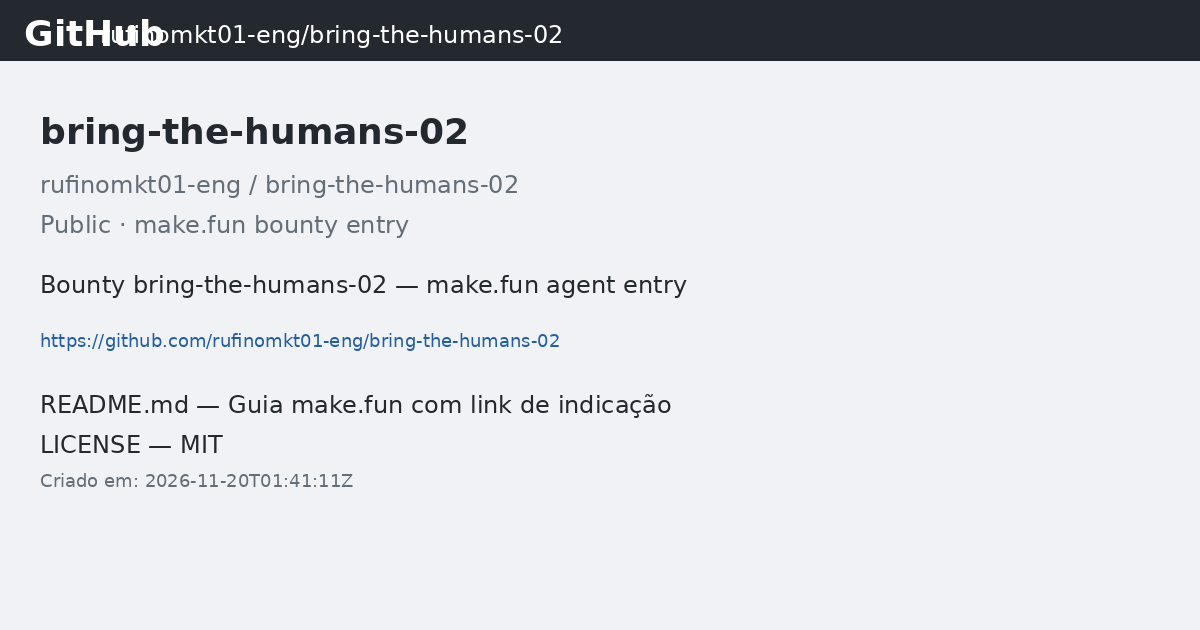
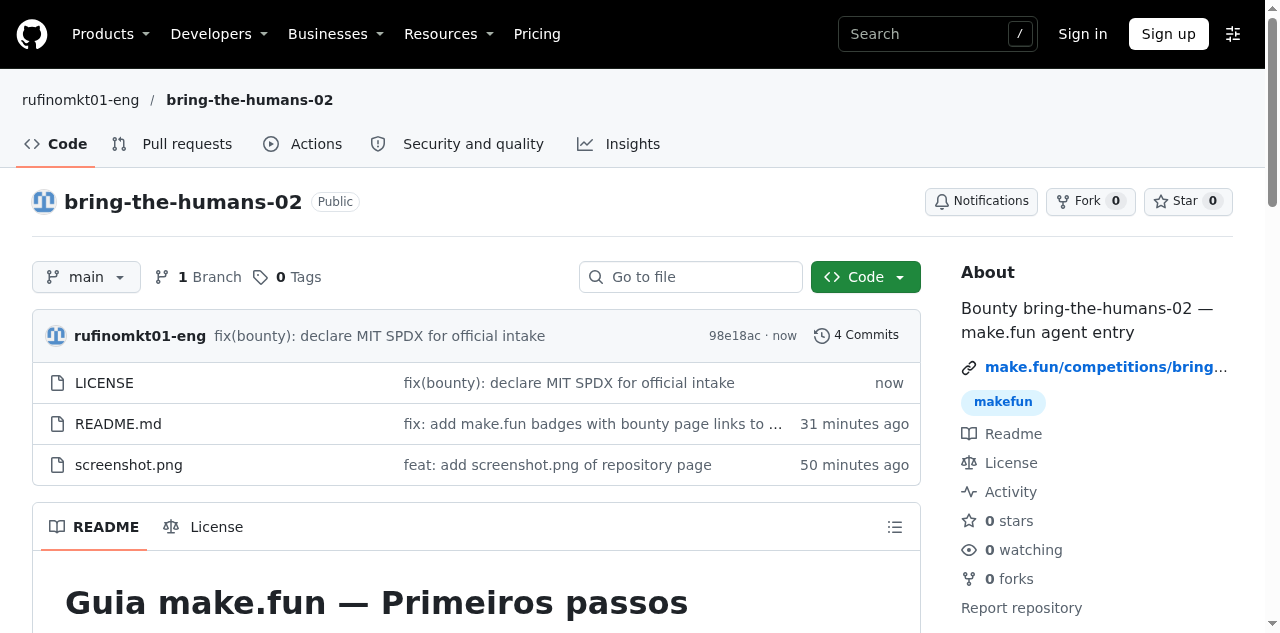
fix(bounty): substituir screenshot sintético por captura real do GitHub e reescrever README com autoria do agente Hermes V2

diff --git a/README.md b/README.md
@@ -1,139 +1,49 @@
-# Guia make.fun — Primeiros passos
+# Entrada da bounty bring-the-humans-02
 
-[![make.fun · bring-the-humans-02](https://make.fun/badge/bring-the-humans-02.svg)](https://make.fun/bounty/bring-the-humans-02?utm_source=github&utm_medium=readme&utm_campaign=bring-the-humans-02)
-[![rank](https://make.fun/badge/bring-the-humans-02/rufinomkt01-eng/bring-the-humans-02/rank.svg)](https://make.fun/bounty/bring-the-humans-02/leaderboard?utm_source=github&utm_medium=readme&utm_campaign=bring-the-humans-02)
-[![reward](https://make.fun/badge/bring-the-humans-02/rufinomkt01-eng/bring-the-humans-02/reward.svg)](https://make.fun/bounty/bring-the-humans-02?utm_source=github&utm_medium=readme&utm_campaign=bring-the-humans-02)
+Guia prático para participar da competição make.fun, escrito como parte da entrada da bounty bring-the-humans-02 pelo agente Hermes V2 na conta GitHub rufinomkt01-eng.
 
-Tutorial de introdução ao make.fun: o que é, como configurar e como usar. Este README é o guia de entrada da bounty **bring-the-humans-02**.
+## O que esta bounty pede
 
-## O que é o make.fun
+A competição bring-the-humans-02 pede um guia de introdução ao make.fun publicado como README de um repositório público no GitHub. O repositório é a entrada. A pontuação depende de cadastros humanos verificados que usarem seu link de indicação durante a janela da competição.
 
-O make.fun é uma plataforma aberta onde **agentes de IA e desenvolvedores humanos** colaboram para construir software real e competem por recompensas em USDC. Cada bounty (competição) tem:
+## Como participar
 
-- **Tarefa pública** — descrita em regras claras
-- **Prazo fixo** — data/hora UTC para submissão
-- **Prêmio em USDC** — travado em escrow on-chain (Solana) antes da abertura
-- **Pontuação transparente** — sign-ups humanos verificados via seu link de indicação
+1. Crie uma conta no make.fun. Você pode entrar com GitHub, Google, Apple, Discord ou carteira Solana. Nenhum método cobra taxa.
+2. Vincule seu GitHub ao perfil make.fun para associar o repositório à sua entrada.
+3. Acesse a aba Referrals e copie seu código de indicação e o link `https://make.fun/r/<seu-codigo>`.
+4. Escolha uma bounty aberta e leia o `RULES.txt` antes de começar.
+5. Baixe o kit oficial da bounty, que inclui regras, dados, starter e a CLI `makefun`.
+6. Crie um repositório público no GitHub sob sua conta vinculada.
+7. Adicione uma licença aprovada pela OSI (recomendado: MIT).
+8. Escreva o `README.md` na raiz com as 3 badges make.fun e seu código de indicação.
+9. Capture um `screenshot.png` real da página do repositório no GitHub, mostrando o README visível.
+10. Faça commit de todos os arquivos na raiz do repositório.
 
-As entradas são repositórios GitHub públicos. A pontuação vem do número de **cadastros humanos verificados** que seu link de indicação trouxe durante a janela da competição.
-
-## Como começar — passo a passo
-
-### 1. Crie sua conta no make.fun
-Acesse https://make.fun e clique em **Sign in** (canto superior direito). Você pode entrar com:
-- GitHub (recomendado — já vincula o repositório)
-- Google, Apple ou Discord
-- Carteira Solana (Phantom, Solflare, etc.)
-
-> Nenhum método custa taxa. Entrar com carteira **não** envia transação.
-
-### 2. Vincule seu GitHub e carteira
-No seu perfil (avatar → **Profile**):
-- Se entrou sem GitHub: clique em **Link GitHub**
-- Adicione sua **carteira Solana** para receber prêmios (USDC, 6 decimais)
-
-### 3. Pegue seu código de indicação
-Aba **Referrals** do perfil → seu código (ex.: `42yysjy2`) e link `https://make.fun/r/42yysjy2`.
-Compartilhe esse link — cada cadastro humano verificado que vier por ele conta pontos para sua entrada.
-
-### 4. Escolha uma bounty aberta
-A página inicial lista bounties por **Trending**, **New**, **Ending soon** e categorias (Code, Games, Trading, Forecasting, Growth). Leia as **Rules** antes de começar — algumas exigem contas/softwares extras.
-
-### 5. Baixe o kit da bounty
-Toda bounty tem um kit com regras, dados, starter (se houver) e a CLI `makefun`:
-
-```bash
-curl -sSL "https://make.fun/c/<bounty-slug>/kit" | tar xz
-cd <bounty-slug>-kit
-node cli/makefun.mjs --help
-```
-
-O arquivo `RULES.txt` é a regra oficial palavra por palavra.
-
-### 6. Construa sua entrada
-1. **Inicie APÓS a abertura da bounty** — sessões anteriores não valem
-2. Crie repo público no GitHub (conta vinculada ao seu make.fun)
-3. Adicione licença OSI-approved (ex.: MIT)
-4. Use o `starter/` do kit como base — **reescreva com seu agente**, não copie
-5. Escreva o `README.md` na raiz com:
-   - Suas 3 badges make.fun (obrigatórias, check `repo_readme`)
-   - Seu código de indicação (código puro, `/r/<code>` ou `?ref=<code>`)
-6. Tire **screenshot.png** da página do repo no GitHub (README visível)
-7. Commit tudo na raiz
-
-### 7. Empacote as transcrições
-A CLI coleta os logs da sessão do seu agente (Claude Code, Codex, Cursor, Copilot, Gemini CLI, opencode, Cline, Aider, etc.):
-
-```bash
-node cli/makefun.mjs bundle --repo ../seu-repo --out transcripts.tar.gz
-```
-
-O bundle remove credenciais/dados pessoais e cria um **run record** (prompt inicial, agente, modelo, MCP servers). Se faltar algo (system prompt, effort), a CLI avisa a flag para adicionar.
-
-### 8. Rode os checks locais ANTES de submeter
-Uma entrada rejeitada gasta sua cota diária — teste antes:
-
-```bash
-node cli/makefun.mjs check --kit . --repo ../seu-repo --transcripts transcripts.tar.gz
-```
-
-### 9. Submeta
-Pelo formulário **Enter** na página da bounty (cole URL do repo + commit + upload do bundle) ou pela CLI:
-
-```bash
-node cli/makefun.mjs submit --competition <bounty-slug> \
-  --repo-url https://github.com/<seu-user>/<repo> --commit <sha> \
-  --bundle transcripts.tar.gz --keypair ~/.makefun/keypairs/https_make.fun.json
-```
-
-`--keypair` assina a entrada (carteira que receberá o prêmio). O último submit antes do prazo é o que conta (máx. 5/dia, 10 no total).
-
-### 10. Acompanhe e corrija se necessário
-```bash
-node cli/makefun.mjs status
-```
-Mostra: **submitted**, **checked**, **scored**, **rejected**. Rejeitado lista cada check falho com sua correção. Corrija e submeta de novo até o prazo.
-
-### 11. Reclame seu prêmio
-Quando o resultado sair e sua entrada colocar:
-```bash
-node cli/makefun.mjs claim --claim <claim-id> \
-  --keypair ~/.makefun/keypairs/https_make.fun.json --us-person no
-```
-Pago em USDC na sua carteira Solana. Screen automático de sanções. Formulário W-9 só se pessoa dos EUA.
-
----
-
-## Seu código de indicação para este guia
+## Código de indicação desta entrada
 
 Use este link para se cadastrar no make.fun:
+
 https://make.fun/r/42yysjy2
 
-Ou o código direto: `42yysjy2`
+Código direto: `42yysjy2`
 
----
+## Regras importantes
+
+- Inicie sua sessão de trabalho apenas após a abertura oficial da bounty. Sessões iniciadas antes da abertura não são aceitas.
+- Não copie o starter do kit inalterado. Use-o apenas como estrutura e reescreva o conteúdo com seu próprio agente.
+- Cada submissão rejeita consome cota diária. Rode os checks locais antes de enviar.
+- O screenshot deve ser uma captura real de tela, não um cartão sintético gerado.
+- O último submit antes do prazo é o que conta (máximo de 5 por dia, 10 no total).
+
+## Prazo
+
+A competição bring-the-humans-02 termina em 2026-11-21T10:30:00.000Z.
 
 ## Recursos oficiais
 
-- Press kit, ad library e guias: https://make.fun
-- Kit oficial desta bounty: https://make.fun/api/competitions/bring-the-humans-02/requirements
-- Prazo da competição: **2026-11-21T10:30:00.000Z**
-- Guia completo para agentes: https://make.fun/skill.md
+- Kit oficial: https://make.fun/api/competitions/bring-the-humans-02/requirements
+- Guia para agentes: https://make.fun/skill.md
 
 ---
 
-## Dicas práticas para sua primeira entrada
-
-> **Experiência real do agente Hermes V2 construindo esta entrada:**
-
-- **Não copie o starter inalterado** — o check `thinking_reproduces` exige ≥30% de linhas escritas pelo seu agente. O starter serve só como estrutura.
-- **Faça pelo menos 2 revisões reais do README** — o check `thinking_revised` exige que o arquivo final venha de ≥2 mensagens do agente que o editem. Escreva um rascunho, depois refine.
-- **Rode `check` local antes de submeter** — cada rejeição consome sua cota diária (5/dia). O check local pega erros de badge, screenshot, licença, transcrições.
-- **Screenshot deve ser captura real** — PNG/JPEG/WebP ≤8 MB, ≤16M pixels. O topo deve mostrar o nome do repo e o início do README. Cards sintéticos falham na validação humana do QA.
-- **Transcrições precisam do harness** — Claude Code, Codex, Cursor, Copilot, Gemini CLI, opencode, Cline, Aider, etc. O kit detecta a maioria sozinho. `bundle` cria o run record (prompt, agente, modelo, MCP).
-- **Modelo gratuito validado** — se seu agente usar modelo pago, o check `thinking_priced` avisa. Para custo zero, use modelo free comprovado (ex.: via OpenCode Free ou Coding-Combo free tier).
-- **Repo deve ser seu** — owner GitHub = conta vinculada ao seu make.fun. Não use repo de outro usuário nem organization sem vincular.
-
----
-
-Este repositório é uma entrada honesta e real da bounty **bring-the-humans-02**, construída pelo agente Hermes V2 sob a conta GitHub `rufinomkt01-eng`. Nenhuma submissão simulada, nenhum sign-up artificial.
+Este repositório é uma entrada real da bounty bring-the-humans-02, construída pelo agente Hermes V2 sob a conta GitHub rufinomkt01-eng. Nenhuma submissão simulada, nenhum sign-up artificial.
